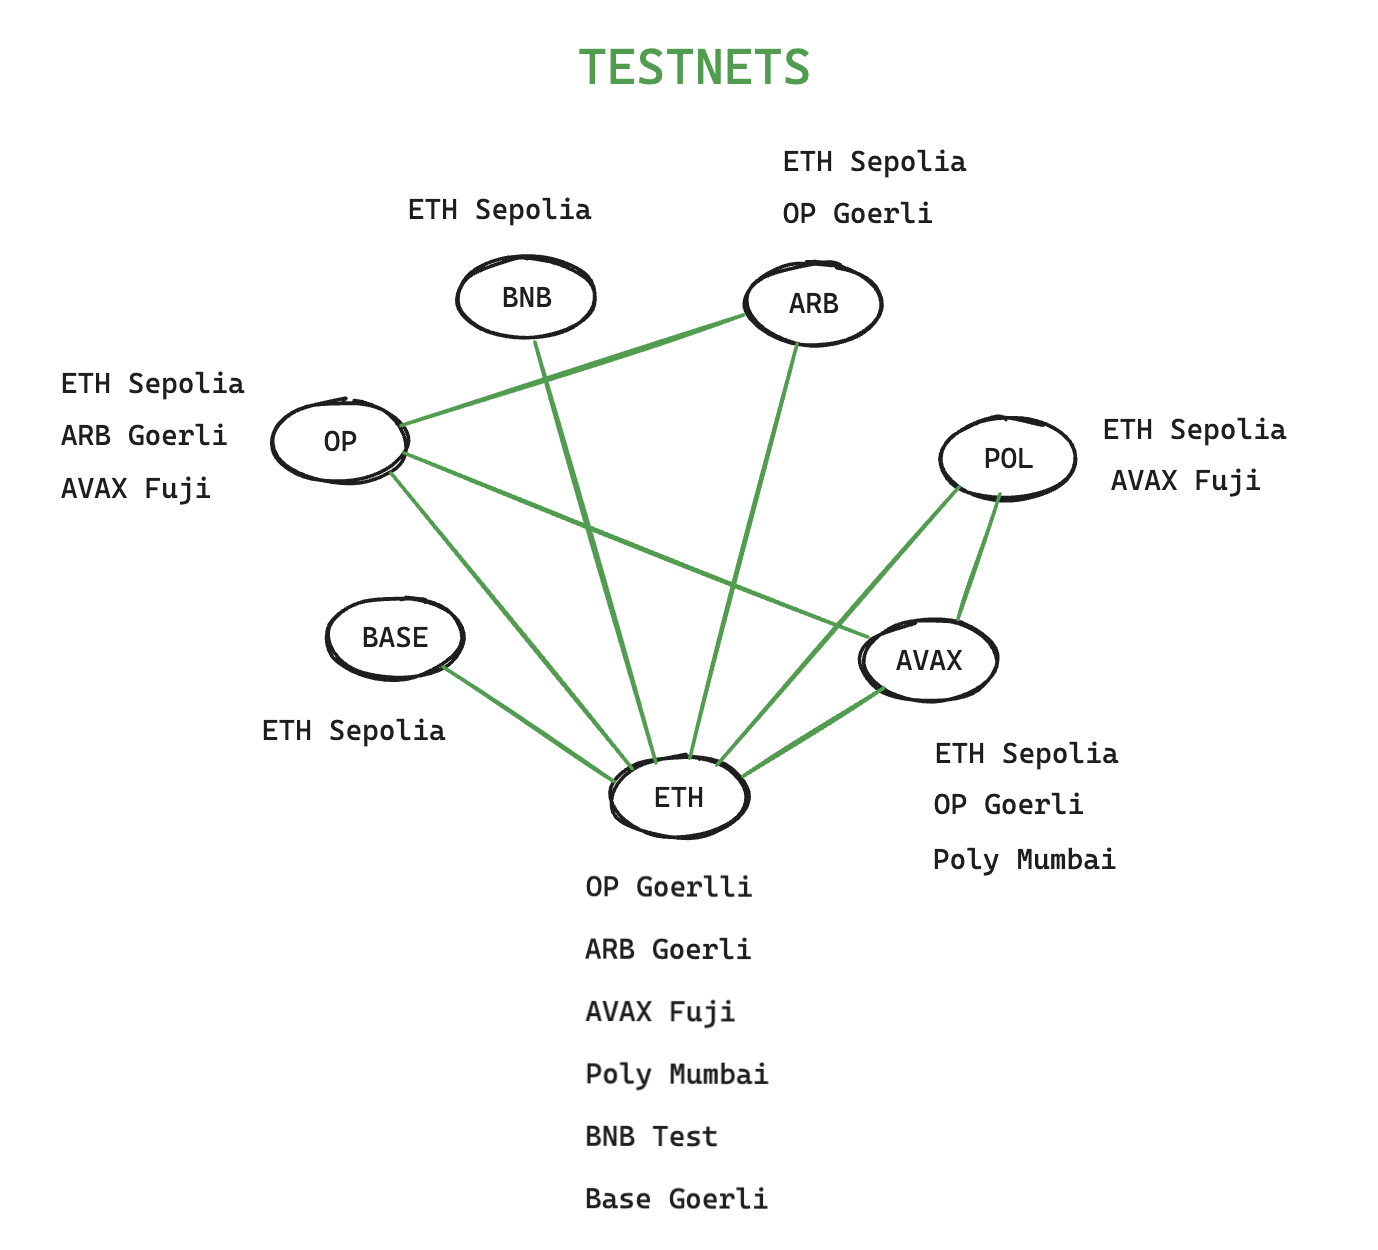
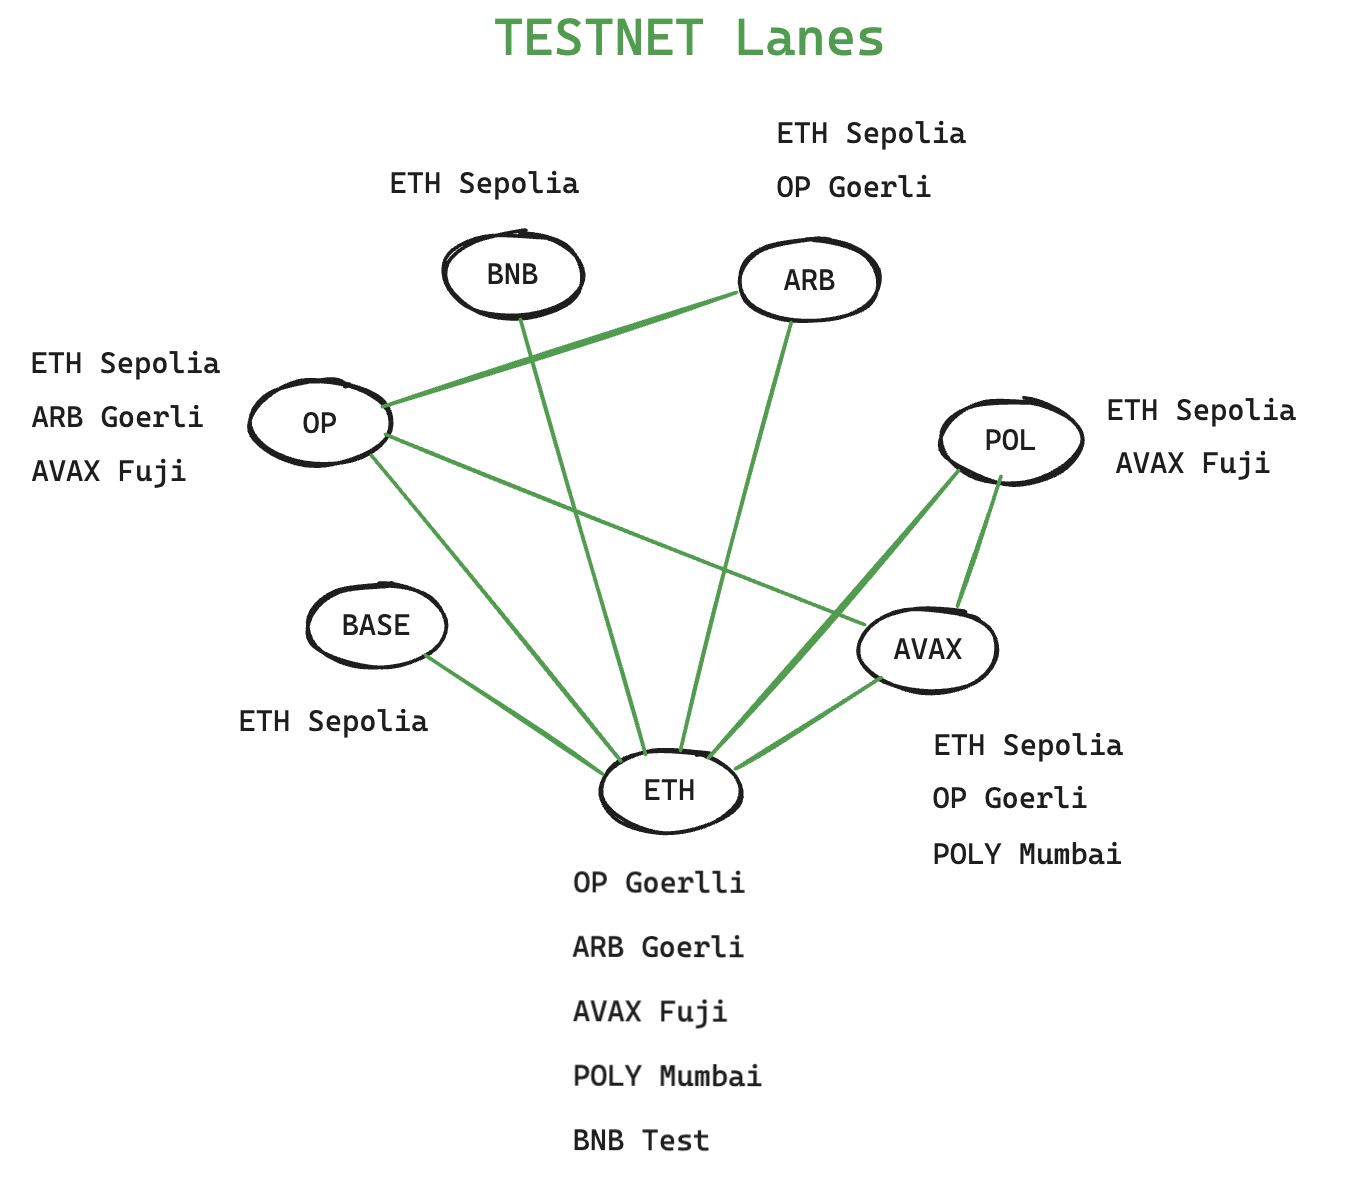
add missing lanes img

Changed region(s): [[0.0312, 0.093, 0.9659, 0.9916], [0.3739, 0.0, 0.6543, 0.093]]

diff --git a/README.md b/README.md
@@ -7,6 +7,8 @@ There are limited CCIP lanes available between select EVM chains, as shown below
 
 How can we unlock interoperability between chains where no lane currently exists ?
 
+![Missing Testnet Lanes](img/Missing%20Testnet%20Lanes.png)
+
 ### Solution
 Introducing '**Virtual Hops**' the one-stop solution for creating virtual CCIP lanes to interconnect EVM chains with ease.
 
